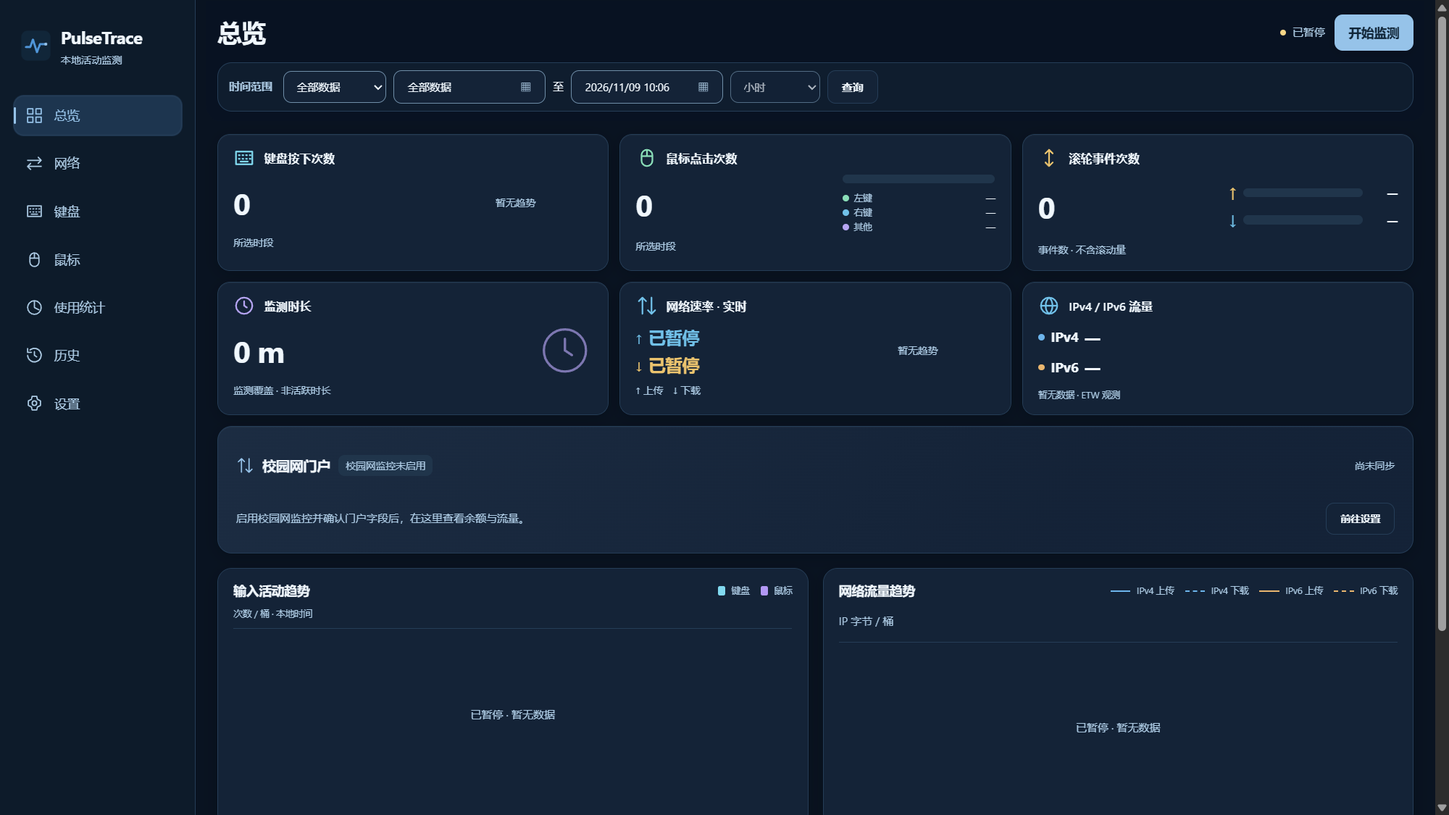
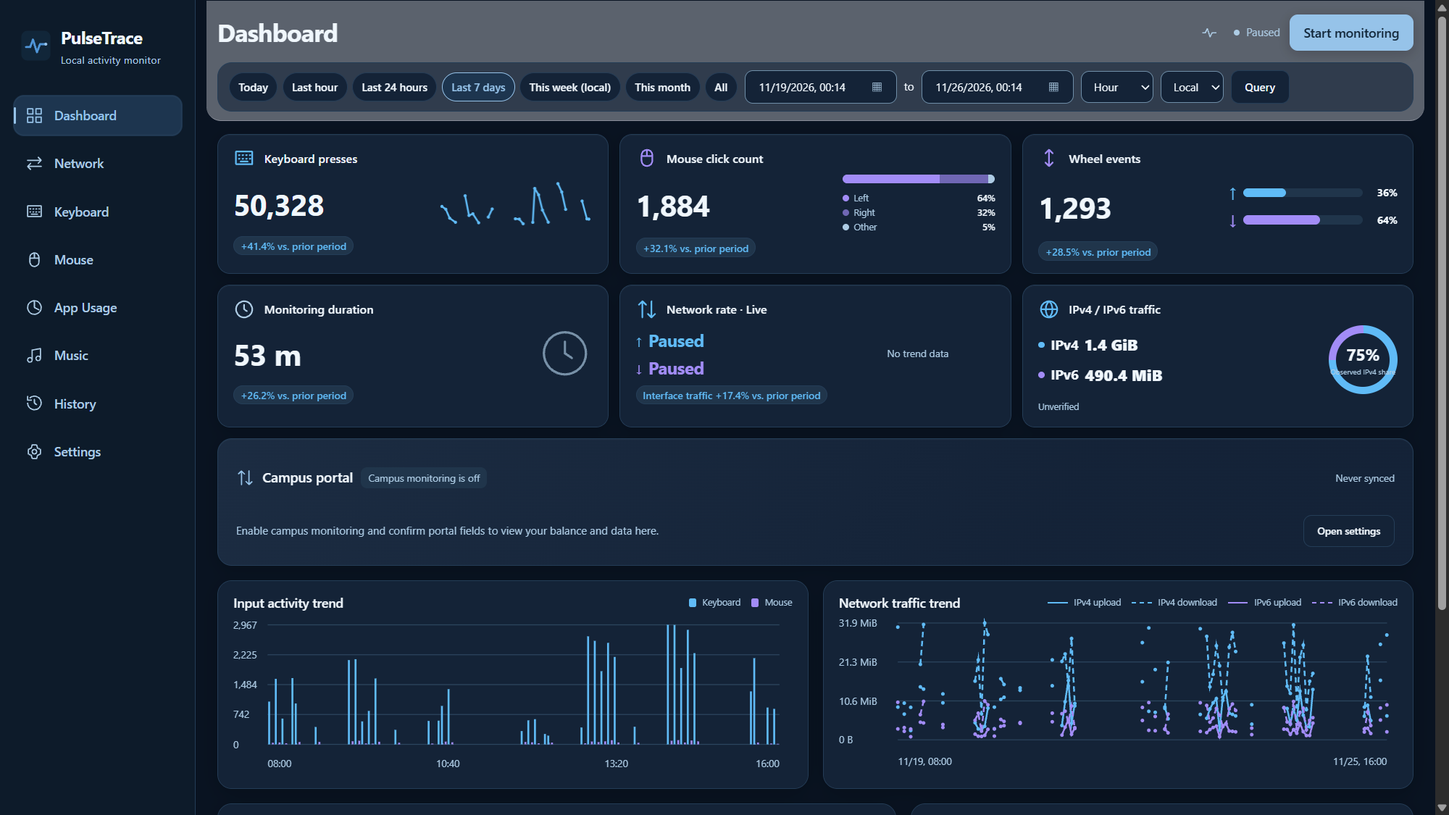
docs: prepare v0.9.0 release notes and screenshots
Document the completed feature cycle and schema compatibility in both languages. Refresh five native WebView2 views with synthetic data and keep the published downloads on v0.8.0.

diff --git a/README_EN.md b/README_EN.md
@@ -6,42 +6,41 @@ A local keyboard, mouse, application usage and network activity monitor for Wind
 
 ## Features
 
-- **Keyboard**: aggregate key statistics, ANSI 104 layout and the continuous Arctic heatmap.
-- **Mouse**: a five-button diagram and ranking; Mouse4 Back, Mouse5 Forward; temporal double clicks, wheel events and deltas tracked separately.
-- **App Usage**: foreground dwell and active time, rankings, hourly/daily trends, exclusions and CSV export.
-- **Music**: optional QQ Music / NetEase SMTC playback duration, qualified plays, song/artist rankings and trends; disabled by default. [Support limits](docs/music.md).
-- **Network**: egress upload/download, physical-interface IPv4/IPv6 observations, monthly daily-traffic calendars, interfaces and connection history.
-- **Campus portal**: optional generic portal monitoring with isolated WebView2 sign-in, DOM field recognition/confirmation and balance/allowance snapshots. Disabled by default.
-- **Simpler pages**: Network no longer displays application traffic rankings or queries them on refresh; existing history is retained. Keyboard rankings collapse by default and preserve expansion state.
-- **Cloud backup**: grouped settings, Jianguoyun HTTPS WebDAV, DPAPI-protected credentials, encrypted archives and confirmed restore. [Backup guide and validation scope](docs/cloud-backup.md).
-- **Live network speed**: displayed on Dashboard and Network; taskbar speed has been removed while tray background operation remains available.
-- **History and settings**: All Data by default, minute/hour/day and custom ranges, SQLite, monthly archives, backups and export; Chinese/English, Deep Ocean / Pearl Mist, tray operation and dual-source update checks.
+- **Keyboard and mouse** · ANSI 104 and TKL heatmaps, light Arctic, linear/log scales, ten-finger load, correction ratio, wheel distance, lifetime estimates and peak KPM/APM.
+- **Activity history** · A 7×24 rhythm matrix, five-metric annual grid, Dashboard period comparisons and local achievements. Seven time shortcuts, custom ranges and local/UTC buckets.
+- **App Usage** · Foreground dwell, active time, rankings, hourly and daily trends, exclusions and CSV export.
+- **Music and BGM Buff** · Optional QQ Music and NetEase SMTC statistics. View playback rankings, typing rates, foreground app associations and single-day track markers when enabled. [Support limits](docs/music.md)
+- **Network and campus portal** · Three bidirectional cards, IPv4/IPv6 trends, monthly calendars and connection history. Optional campus monitoring and Windows alerts for low balance or free data are off by default. [Campus portal guide](docs/campus-portal.md)
+- **Themes and sharing** · Deep Ocean and Pearl Mist can follow Windows. Export light or dark Dashboard summary PNGs with selectable contents. Music is unchecked by default.
+- **Zen Pulse** · Dark dual traces for live input and network activity, with fullscreen on the current monitor. Animation stops when hidden or minimized.
+- **Data and Windows integration** · Local SQLite, monthly archives, backup and CSV export, Chinese/English, tray operation, dual-source update checks and Run or logon-task startup. Encrypted WebDAV backup is opt-in. [Cloud backup guide](docs/cloud-backup.md)
 
-Collection starts paused. Input text, window titles and mouse trajectories are not recorded. Active time uses an idle threshold; IPv4/IPv6 and rankings depend on permissions, sampling and quality, and do not represent full-system traffic or campus billing. Campus monitoring is disabled by default, and unconfirmed portal fields remain unknown. Unsigned update packages require manual installation after verification. [Measurement limits](docs/traffic-rankings.md) · [App Usage](docs/app-usage.md) · [Campus portal](docs/campus-portal.md)
+Collection starts paused. Input text, window titles and mouse trajectories are not recorded. Active time uses an idle threshold. IPv4/IPv6 observations and rankings depend on permissions, sampling and data quality. Unsigned update packages require manual installation after verification. [Measurement limits](docs/traffic-rankings.md) · [App Usage](docs/app-usage.md)
 
 ## Screenshots
 
-Actual **v0.7.4 x64 Release** screenshots, using isolated empty data with collection paused. Pages use 1600×900 DIP (2000×1125 pixels at 125% DPI). The campus **Demo** uses synthetic in-memory readings, with no personal account or statistics. v0.8.0 includes simplified copy and an updated mouse diagram; these captures remain from v0.7.4.
+These native WebView2 screenshots are from the **v0.9.0 preparation** build, based on commit `b386c96` in Windows x64 Release configuration. Collection was paused. The screens use synthetic records and demonstration waveforms. The viewport is 1600×900 DIP (2000×1125 pixels at 125% DPI).
 
-| Dashboard | Network |
+| Dark Dashboard | Light keyboard heatmap |
 | --- | --- |
-| ![Dashboard](docs/screenshots/dashboard.png) | ![Network](docs/screenshots/network.png) |
-| **ANSI 104 keyboard heatmap** | **Campus portal · Demo** |
-| ![Keyboard heatmap](docs/screenshots/keyboard.png) | ![Campus portal Demo](docs/screenshots/campus-demo.png) |
+| ![Dark Dashboard and period comparisons](docs/screenshots/dashboard.png) | ![Light ANSI 104 heatmap](docs/screenshots/keyboard.png) |
+| **Ten-finger load** | **Activity rhythm and annual grid** |
+| ![Light ten-finger load chart](docs/screenshots/finger-load.png) | ![History rhythm matrix and annual grid](docs/screenshots/activity-history.png) |
+
+**Zen Pulse**
+
+![Blue input and violet network traces](docs/screenshots/zen-pulse.png)
 
 <details>
-<summary>Mouse and App Usage</summary>
+<summary>Historical screenshots · v0.7.4 and the former taskbar widget</summary>
 
-| Mouse | App Usage |
+| Network | Campus portal (synthetic Demo) |
 | --- | --- |
+| ![Earlier Network page](docs/screenshots/network.png) | ![Campus portal Demo](docs/screenshots/campus-demo.png) |
+| **Mouse** | **App Usage** |
 | ![Mouse](docs/screenshots/mouse.png) | ![App Usage](docs/screenshots/usage.png) |
 
-</details>
-
-<details>
-<summary>Historical taskbar widget (removed in v0.7.1)</summary>
-
-![Historical taskbar widget, paused](docs/screenshots/taskbar.png)
+![Former taskbar widget (removed in v0.7.1)](docs/screenshots/taskbar.png)
 
 </details>
 
@@ -57,7 +56,7 @@ Measured main `d414ecf`: Windows 11 26300, Ryzen 5 5600 (12 logical processors),
 
 All rows include the native helper; the taskbar helper alone used **2.81 MiB Private Bytes / 17.55 MiB Working Set**. Private Bytes measures private committed memory; Working Set measures resident pages, and summing processes double-counts shared pages. These short runs establish neither long-term limits nor performance improvements.
 
-Current program files listed by the installer total **11.07 MiB**, excluding the uninstaller, system Runtime and `data`; the current installed size including the uninstaller remains untested. After 45 seconds, data files totaled approximately **0.12 MiB** for background/taskbar and **10.73 MiB** with the window open, including WebView2 cache. Measurement reports are excluded; file sizes are not disk writes. [Methods and results](docs/performance.md)
+Program files listed by the installer used in that measurement total **11.07 MiB**, excluding the uninstaller, system Runtime and `data`; the installed size including the uninstaller was not measured. After 45 seconds, data files totaled approximately **0.12 MiB** for background/taskbar and **10.73 MiB** with the window open, including WebView2 cache. Measurement reports are excluded; file sizes are not disk writes. [Methods and results](docs/performance.md)
 
 ## Download and Install
 
@@ -68,7 +67,7 @@ Windows 10/11 x64 with Microsoft Edge WebView2 Evergreen Runtime is required.
 - **Installer**: run `PulseTrace-Setup-*.exe`; data lives in the installation's `data` folder and is retained by default on uninstall.
 - **Portable**: extract the complete ZIP, retain Web assets, DLLs and helper, then run `PulseTrace.exe`.
 
-Version **v0.8.0** adds Music statistics, rankings, trends and CSV, preserving existing data through schema 9 migration. QQ reads work locally; real NetEase compatibility remains unverified. See [release notes](docs/releases/v0.8.0.md). [User guide](docs/desktop-guide.md) · [Build from source](docs/build.md)
+**v0.9.0 is pending release.** It adds input insights, activity rhythms, BGM Buff and Zen Pulse. Upgrading from v0.8.0 keeps SQLite schema 9. The download links above point to the published v0.8.0 packages. [v0.9.0 release notes](docs/releases/v0.9.0.md) · [User guide](docs/desktop-guide.md) · [Build from source](docs/build.md)
 
 ## Stack
 

diff --git a/docs/releases/v0.9.0.md b/docs/releases/v0.9.0.md
@@ -1,0 +1,43 @@
+# PulseTrace 0.9.0
+
+Windows 10/11 x64 · 发布准备 / Release preparation · 2026-11-26
+
+## 更新 / Changes
+
+- **主题与配色**（`255a096`） Deep Ocean 和 Pearl Mist 统一系列色。键盘、IPv4 和上行使用海蓝，鼠标、IPv6 和下行使用紫罗兰。监测中使用低调的暂停按钮，暂停时突出恢复操作。浅色次级文字对比度提高，主题可跟随系统。
+- **键盘与时间范围**（`d099660`、`55e7245`） Arctic 热力图适配浅色，支持线性／对数色阶、整数图例和 ANSI 104／TKL（87 键）视图。近 1 小时、近 24 小时、今日、本周、近 7 天、本月和全部七个快捷项取代重复的预设下拉框。小时和天可按本地时间或 UTC 分桶。
+- **网络与校园网**（`a138c76`） 网络页把接口、IPv4 和 IPv6 汇总为三张双向卡，为首屏趋势图留出空间。低余额和低免费流量可通过 Windows 本地通知提醒，默认关闭。提醒按门户、类型和账期去重，无法识别账期时使用 24 小时冷却。
+- **总结卡片与峰值**（`23b6757`） 总览可将所选时段导出为深／浅主题 PNG，自选统计内容，音乐默认不勾选。峰值 KPM／APM 基于已有分钟聚合。
+- **Windows 自启**（`35987a7`） 识别任务管理器禁用的 Run 项，校准因移动便携版而失效的旧路径，支持以最高可用权限运行当前账户的登录计划任务。早期启动错误写入 `%TEMP%\PulseTrace-startup-error.log`。
+- **Phase A 趣味洞察**（`da8553a`） 新增 SVG 十指负载、左右手占比和打字纠错指数。空格按双拇指共用单列。鼠标滚轮按每个标准格 3 mm 估算里程。键鼠额定寿命可配置，预计剩余年限使用至少 7 天的观测跨度外推。总览新增折叠成就，单曲成就按需查询。
+- **Phase B 节律和环比**（`61b4b8f`） 历史页新增 7×24 昼夜节律矩阵，支持悬停和方向键查看平均值、总量与观测小时数。365／366 天年度活动墙可切换按键、点击、有效活跃时长、接口流量和已启用的音乐时长。总览在有有效上期基线时显示环比。
+- **Phase C BGM Buff**（`6f43088`） 启用音乐且有播放记录时可按需查看高能战歌榜、软件专属配乐和单日按键趋势曲目标记。榜单要求播放与键盘观测估算重合至少 5 分钟。前台应用关联也从已有分钟时长估算。
+- **Phase D 脉冲模式**（`b386c96`） 顶栏可进入深色双轨示波画布，支持当前显示器全屏、Esc 或双击退出。海蓝轨反映键鼠变化，紫罗兰轨反映网速变化，角落显示本地时钟、今日键鼠累计和启用时的当前 SMTC 曲目。退出、隐藏或最小化时停帧并释放 Canvas 缓冲。
+
+- **Themes and colors** (`255a096`). Deep Ocean and Pearl Mist use blue for keyboard, IPv4 and upload, and violet for mouse, IPv6 and download. Pause is subdued while monitoring and Resume is emphasized when paused. Pearl Mist has stronger secondary text contrast, and the theme can follow Windows.
+- **Keyboard and time ranges** (`d099660`, `55e7245`). Arctic adapts to the light theme. The heatmap supports linear and logarithmic scales, integer legends, and ANSI 104 or TKL (87 keys). Last Hour, Last 24 Hours, Today, This Week, Last 7 Days, This Month and All Data replace the duplicate preset menu. Hour and day buckets support local time or UTC.
+- **Network and campus portal** (`a138c76`). Three bidirectional cards cover interface totals, IPv4 and IPv6, leaving room for traffic trends near the top. Optional Windows alerts for low balance or low free data are disabled by default. They deduplicate by portal, alert type and billing period, with a 24-hour cooldown when the period is unknown.
+- **Summary cards and peaks** (`23b6757`). Export the selected period as a light or dark PNG with selectable contents. Music is unchecked by default. Peak KPM and APM use existing minute aggregates.
+- **Windows startup** (`35987a7`). Detects Run entries disabled in Task Manager, repairs stale paths after a portable installation is moved, and offers a per-user logon task with the highest available privileges. Early startup errors go to `%TEMP%\PulseTrace-startup-error.log`.
+- **Phase A, input insights** (`da8553a`). Adds an SVG ten-finger load chart, left/right-hand share and a typing correction ratio. Space is counted separately as shared by both thumbs. Wheel distance assumes 3 mm per standard detent. Rated keyboard and mouse lifetimes are configurable, with remaining-life estimates based on at least seven days of observations. The collapsible Dashboard achievements query the repeat-track achievement on demand.
+- **Phase B, activity rhythms and comparisons** (`61b4b8f`). History adds a 7×24 rhythm matrix with hover and arrow-key access to averages, totals and observed hours. The 365/366-day activity grid supports keystrokes, clicks, active time, interface traffic and music duration when enabled. Dashboard period comparisons appear when a valid prior baseline is available.
+- **Phase C, BGM Buff** (`6f43088`). With music tracking enabled and playback data available, expand the panel for typing-rate rankings, app associations and optional track markers on single-day keystroke trends. The ranking requires at least five minutes of estimated playback and keyboard coverage overlap. App associations also use estimates from existing minute durations.
+- **Phase D, Zen Pulse** (`b386c96`). The toolbar opens a dark dual-trace canvas with fullscreen on the current monitor, Esc or double-click to exit, blue input and violet network traces, a local clock, today's input totals and the current SMTC track when enabled. Exiting, hiding or minimizing stops frames and releases the canvas backing buffer.
+
+## 安装与升级 / Install and upgrade
+
+- 升级前从托盘完全退出旧程序，保留 `data`。便携版需完整解压，运行需要 Microsoft Edge WebView2 Evergreen Runtime。
+- 从 v0.8.0 升级沿用 **SQLite schema 9**，无需数据库结构迁移。现有采集链路保持原样。新洞察使用已有聚合数据。
+- v0.9.0 安装包与便携包待正式发布。音乐统计需在设置中启用，并开启主监测开关。SMTC 需要 Windows 10 1809 或更新系统。
+
+Quit the old tray process and keep the `data` directory. Extract the complete portable ZIP. Microsoft Edge WebView2 Evergreen Runtime is required. Upgrading from v0.8.0 retains **SQLite schema 9** and requires no schema migration. The capture pipeline remains unchanged. The new insights use existing aggregates. v0.9.0 installer and portable packages are pending release. Music tracking requires opting in and enabling monitoring. SMTC requires Windows 10 1809 or later.
+
+## 验证与限制 / Validation and limits
+
+- Windows x64 Release 构建、完整 CTest **38/38** 和 README 校验已通过。原生 WebView2 自检覆盖双语、深浅主题及实际最小化后的停帧与恢复。实际 Windows DPI 为 125%，Canvas 的 150% 像素比例通过 WebView2 缩放模拟验证。
+- 校园网阈值与去重、PNG 生成与落盘、计划任务定义、BGM 时间重合及脉冲波形均有合成数据或隔离测试。滚轮里程、硬件寿命和 BGM 重合为估算。年度视图取决于各模块保留的数据。
+- 尚未真机复测真实校园网触发 Windows 通知、PNG 交互式另存为、管理员计划任务注册后重新登录、QQ 音乐／网易云真实长时间播放联测、混合 DPI 双屏切换及长期后台 CPU／内存占用。正式安装包的验证结果将在发版时记录。
+
+- The Windows x64 Release build, full CTest suite (**38/38**) and README checks passed. Native WebView2 self-tests covered both languages and themes, as well as stopping and resuming frames across actual minimization. Windows was at 125% DPI. The 150% canvas pixel ratio was exercised through simulated WebView2 scaling.
+- Synthetic or isolated tests covered campus thresholds and deduplication, PNG generation and file writing, task definitions, BGM overlap and pulse traces. Wheel distance, hardware lifetime and BGM overlap are estimates. The annual grid depends on each module's retained data.
+- Pending real-world checks include Windows alerts triggered by a live campus portal, the interactive PNG Save As dialog, re-logon with an administrator task, sustained QQ Music and NetEase playback, mixed-DPI dual-monitor switching, and long-duration background CPU and memory use. Package validation results will be recorded at release.

diff --git a/README.md b/README.md
@@ -6,42 +6,41 @@
 
 ## 功能特性
 
-- **键盘**：按键聚合统计、ANSI 104 布局及 Arctic 连续热力图。
-- **鼠标**：二维五键热力图与排行，Mouse4 后退、Mouse5 前进；时间双击、滚轮事件与 delta 分开统计。
-- **应用使用**：前台停留与有效活跃时长、排行、小时/日期趋势、排除列表及 CSV 导出。
-- **音乐**：可选 QQ 音乐 / 网易云 SMTC 播放时长、有效次数、歌曲/歌手排行及趋势；默认关闭。[支持范围](docs/music.md)。
-- **网络**：出口上传/下载、物理接口 IPv4/IPv6 观测、自然月每日流量热力图、接口与连接历史。
-- **校园网**：可选通用门户监控，独立 WebView2 登录、DOM 字段识别与确认、余额/额度/周期快照；默认关闭。
-- **页面精简**：网络页移除应用流量排行及其刷新请求，保留原历史；键位使用排名默认收起，展开状态随刷新保留。
-- **云备份**：分类设置导航，坚果云 HTTPS WebDAV、DPAPI 凭据保存、强制加密归档及确认恢复。[云备份说明与验证范围](docs/cloud-backup.md)。
-- **实时网速**：在总览和网络页显示；已移除任务栏网速组件，保留托盘后台运行。
-- **历史与设置**：默认全部数据、分钟/小时/天及自定义范围，SQLite、月度归档、备份与导出；中英双语、Deep Ocean / Pearl Mist、托盘后台及双源更新检查。
+- **键盘与鼠标** · ANSI 104／TKL 热力图、浅色 Arctic、线性／对数色阶、十指负载、纠错比例、滚轮里程、硬件寿命估算与峰值 KPM／APM。
+- **活动历史** · 7×24 昼夜节律矩阵、五维年度活动墙、总览环比与本地成就。七个时间快捷项、自定义范围及本地时间／UTC 分桶。
+- **应用使用** · 前台停留与有效活跃时长、排行、小时／日期趋势、排除列表及 CSV 导出。
+- **音乐与 BGM Buff** · 可选 QQ 音乐／网易云 SMTC 统计。启用后可查看播放排行及按键速率、前台应用关联和单日曲目标记。 [支持范围](docs/music.md)
+- **网络与校园网** · 三张双向流量卡、IPv4／IPv6 趋势、月度日历和连接历史。可选校园网监控和低余额／低免费流量 Windows 提醒，默认关闭。 [校园网说明](docs/campus-portal.md)
+- **主题与分享** · Deep Ocean／Pearl Mist 可跟随系统。总览可导出内容可选的双主题 PNG，音乐默认不包含。
+- **脉冲模式** · 深色双轨显示实时键鼠与网络波动，支持副屏全屏。隐藏或最小化后停止动画。
+- **数据与 Windows 集成** · 本地 SQLite、月度归档、备份和 CSV 导出、中英双语、托盘、双源更新检查，以及 Run 或登录计划任务自启。加密 WebDAV 备份需主动启用。 [云备份说明](docs/cloud-backup.md)
 
-首次启动默认暂停，不记录输入文本、窗口标题或鼠标轨迹。活跃时长使用空闲阈值；IPv4/IPv6 与排行受权限、采样及质量限制，不代表全系统流量或校园网计费。校园网监控默认关闭，无法确认的门户字段保持未知。未签名更新包只支持校验后手动安装。[统计边界](docs/traffic-rankings.md) · [应用使用说明](docs/app-usage.md) · [校园网说明](docs/campus-portal.md)
+首次启动默认暂停。不记录输入文本、窗口标题或鼠标轨迹。活跃时长使用空闲阈值，IPv4／IPv6 观测及排行受权限、采样和质量限制。未签名更新包需校验后手动安装。 [统计边界](docs/traffic-rankings.md) · [应用使用说明](docs/app-usage.md)
 
 ## 软件截图
 
-真实 **v0.7.4 x64 Release** 界面，使用独立空数据目录并暂停采集。页面统一为 1600×900 DIP（125% DPI 下 2000×1125 像素）。校园网 **Demo** 使用内存合成读数，不含个人账号或统计。v0.8.0 已包含文案精简与鼠标图形更新；此处保留 v0.7.4 截图。
+以下为 **v0.9.0 发布准备阶段**的原生 WebView2 截图，使用提交 `b386c96` 的 Windows x64 Release 构建。采集已暂停，画面只含合成记录和演示波形。视口为 1600×900 DIP（125% DPI 下为 2000×1125 像素）。
 
-| 总览 | 网络 |
+| 深色总览 | 浅色键盘热力图 |
 | --- | --- |
-| ![总览](docs/screenshots/dashboard.png) | ![网络](docs/screenshots/network.png) |
-| **ANSI 104 键盘热力图** | **校园网门户 · Demo** |
-| ![键盘热力图](docs/screenshots/keyboard.png) | ![校园网 Demo](docs/screenshots/campus-demo.png) |
+| ![深色总览与环比](docs/screenshots/dashboard.png) | ![浅色 ANSI 104 热力图](docs/screenshots/keyboard.png) |
+| **十指负载** | **昼夜节律与年度活动墙** |
+| ![浅色十指负载](docs/screenshots/finger-load.png) | ![历史页节律矩阵与年度墙](docs/screenshots/activity-history.png) |
+
+**脉冲模式**
+
+![海蓝键鼠与紫罗兰网络波形](docs/screenshots/zen-pulse.png)
 
 <details>
-<summary>鼠标与应用使用统计</summary>
+<summary>历史截图 · v0.7.4 界面与旧版任务栏</summary>
 
-| 鼠标 | 应用使用 |
+| 网络 | 校园网（合成 Demo） |
 | --- | --- |
+| ![旧版网络](docs/screenshots/network.png) | ![校园网 Demo](docs/screenshots/campus-demo.png) |
+| **鼠标** | **应用使用** |
 | ![鼠标](docs/screenshots/mouse.png) | ![应用使用](docs/screenshots/usage.png) |
 
-</details>
-
-<details>
-<summary>历史任务栏组件（v0.7.1 已移除）</summary>
-
-![历史任务栏组件，暂停状态](docs/screenshots/taskbar.png)
+![旧版任务栏组件（v0.7.1 已移除）](docs/screenshots/taskbar.png)
 
 </details>
 
@@ -57,7 +56,7 @@
 
 以上均包含原生 helper；任务栏 helper 单独为 **2.81 MiB Private Bytes / 17.55 MiB Working Set**。Private Bytes 是私有提交量；Working Set 是驻留工作集，进程求和会重复计算共享页。短测不代表长期上限或性能提升。
 
-当前安装清单中的程序文件合计 **11.07 MiB**，不含卸载器、系统 Runtime 和 `data`；含卸载器的当前安装体积待测。45 秒后数据文件：后台/任务栏约 **0.12 MiB**，界面约 **10.73 MiB**，包含 WebView2 缓存；排除测量报告，不是磁盘写入量。[完整口径与实测](docs/performance.md)
+该次测量的安装清单中的程序文件合计 **11.07 MiB**，不含卸载器、系统 Runtime 和 `data`；含卸载器的安装体积未测。45 秒后数据文件：后台/任务栏约 **0.12 MiB**，界面约 **10.73 MiB**，包含 WebView2 缓存；排除测量报告，不是磁盘写入量。[完整口径与实测](docs/performance.md)
 
 ## 下载安装
 
@@ -68,7 +67,7 @@ Windows 10/11 x64，需要 Microsoft Edge WebView2 Evergreen Runtime。
 - **安装版**：运行 `PulseTrace-Setup-*.exe`；数据在安装目录的 `data`，卸载默认保留。
 - **便携版**：完整解压 ZIP，保留 Web 资源、DLL 和 helper，运行 `PulseTrace.exe`。
 
-版本 **v0.8.0** 新增音乐统计、排行、趋势及 CSV，保留原数据并升级至 schema 9。QQ 已验证读取，网易云真实客户端待验证。详见[发布说明](docs/releases/v0.8.0.md)。[使用说明](docs/desktop-guide.md) · [源码构建](docs/build.md)
+**v0.9.0 待发布**。本版增加输入洞察、活动节律、BGM Buff 和脉冲模式。从 v0.8.0 升级沿用 SQLite schema 9。页面上方的下载链接指向已发布的 v0.8.0。 [v0.9.0 发布说明](docs/releases/v0.9.0.md) · [使用说明](docs/desktop-guide.md) · [源码构建](docs/build.md)
 
 ## 技术栈
 

diff --git a/docs/development-status.md b/docs/development-status.md
@@ -1,5 +1,11 @@
 # PulseTrace 开发状态
 
+## v0.9.0 文档与截图准备（2026-11-26）
+
+- 发布说明按中英双语记录从 `v0.8.0` 到 `b386c96` 的功能和验证边界。升级沿用 SQLite schema 9。双语 README 链接待发布的 v0.9.0 说明并保留 v0.8.0 下载链接。
+- 用独立测试目录和暂停采集的 Windows x64 Release 自检刷新深色总览、浅色键盘热力图、十指负载、历史节律与年度墙、Zen Pulse 共五张图。截图使用合成分钟记录和演示波形。原生 WebView2 视口为 1600×900 DIP，125% DPI 对应 2000×1125 像素。保留其余历史图并标明版本。
+- Release 构建、完整 CTest 38／38 和 README 校验 296 项通过。五张新增或更新的 PNG 已核对画面、尺寸和元数据。准备阶段沿用现有程序版本源，等待真机复核后再进行版本标记和正式发布。
+
 ## Phase D Zen Pulse 沉浸模式（2026-11-25）
 
 - 主界面顶栏的脉冲按钮打开无侧栏深色画布。海蓝轨响应键盘与鼠标会话计数的变化，紫罗兰轨响应接口总速率及速率变化。按 Esc、双击画布或点退出按钮返回原页；全屏使用窗口所在显示器，退出全屏恢复原窗口位置与最大化状态。
